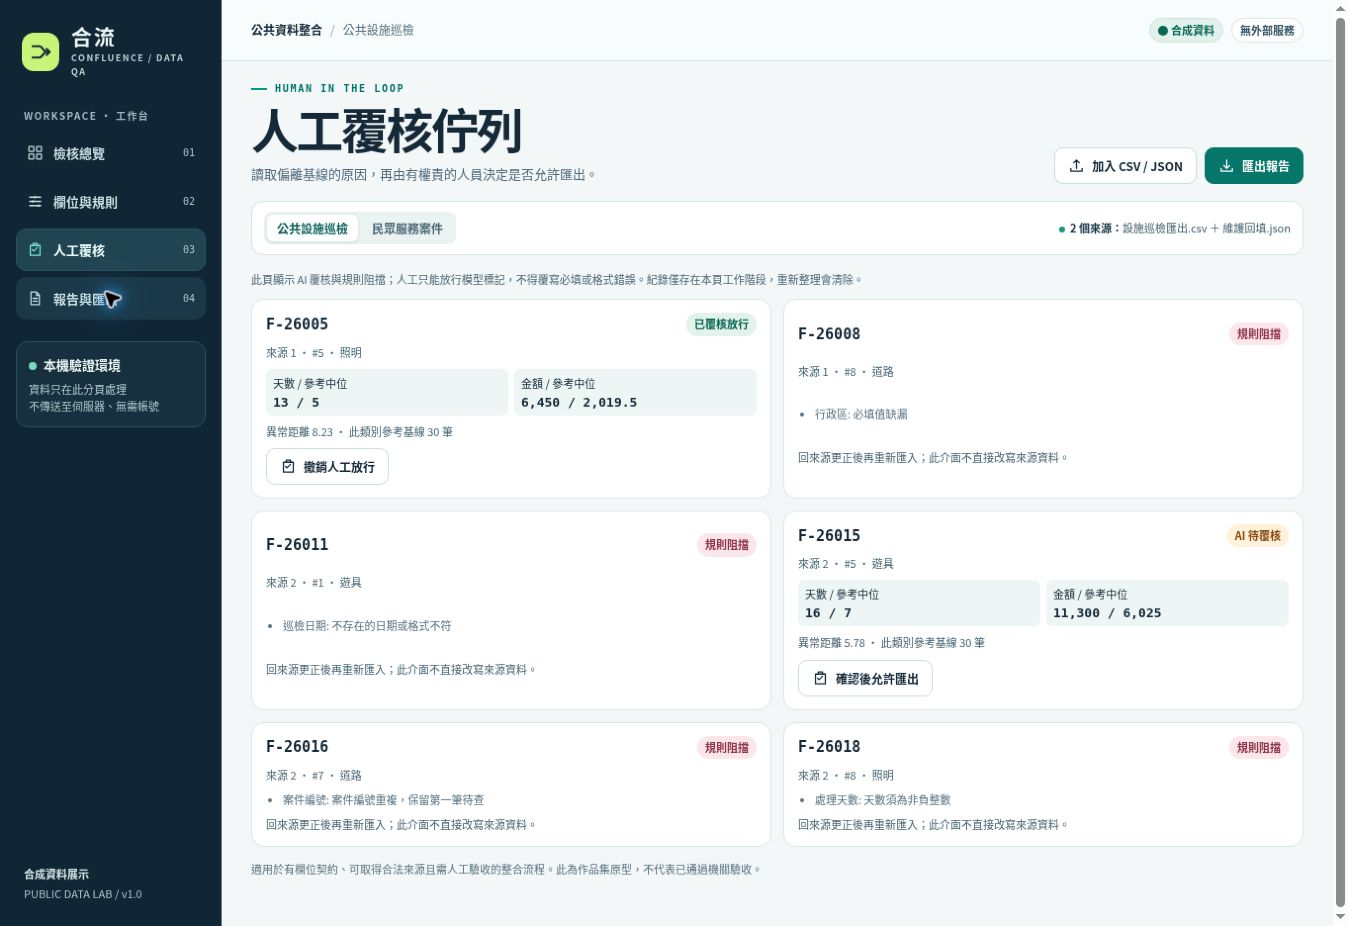
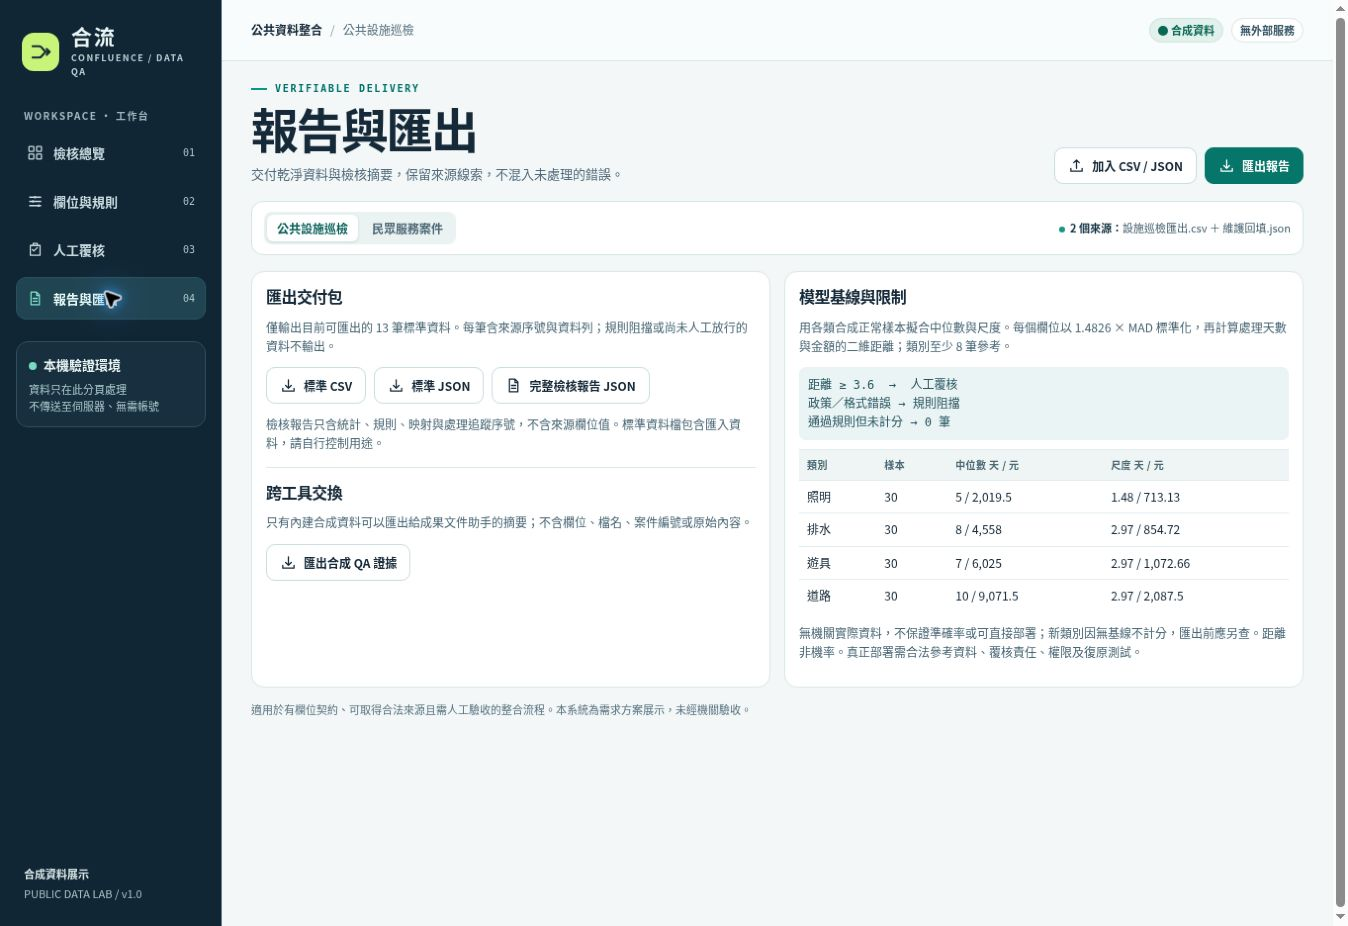
Document formal requirements and acceptance scenarios

diff --git a/app.js b/app.js
@@ -92,7 +92,7 @@ function render(focus){
  '<main class="main" id="main-content"><div class="hero"><div><div class="eyebrow">'+eye+'</div><h1>'+title+'</h1><p>'+desc+'</p></div><div class="actions">'+button('加入 CSV / JSON','import','upload')+button('匯出報告','go-report','download','primary')+'<input type="file" id="upload" accept=".csv,.json,text/csv,application/json" hidden></div></div>'+
  '<div class="sourcebar"><div class="segment" role="group" aria-label="資料場域">'+Object.entries(PRESETS).map(([k,p])=>'<button type="button" data-profile="'+k+'" class="'+(k===state.key?'active':'')+'" aria-pressed="'+(k===state.key)+'">'+esc(p.title)+'</button>').join('')+'</div><div class="source-name" title="'+esc(sourceLabel)+'"><span class="signal"></span><b>'+state.sources.length+' 個來源：</b>'+esc(sourceLabel)+'</div></div>'+
  (state.error?'<p class="notice error" role="alert">'+esc(state.error)+'</p>':'')+widgets[state.tab](a)+
- '<p class="foot">適用於有欄位契約、可取得合法來源且需人工驗收的整合流程。此為作品集原型，不代表已通過機關驗收。'+(!state.demo?' 新上傳檔案未用來重新擬合模型。':'')+'</p></main></div></div>';
+ '<p class="foot">適用於有欄位契約、可取得合法來源且需人工驗收的整合流程。本系統為需求方案展示，未經機關驗收。'+(!state.demo?' 新上傳檔案未用來重新擬合模型。':'')+'</p></main></div></div>';
  if(focus)document.querySelector(focus)?.focus({preventScroll:true});
 }
 function switchTab(tab){state.tab=tab;render('[data-tab="'+tab+'"]');window.scrollTo(0,0);}

diff --git a/README.md b/README.md
@@ -1,57 +1,49 @@
-# 合流｜公共資料品管工作台
+# 合流｜公共資料整合與品質檢核方案
 
-**把不同來源的 CSV／JSON 轉成同一份資料契約，分開處理格式錯誤與異常訊號，再交付可追溯的標準資料。** 這是可執行的作品集原型。兩套情境與參考樣本全為合成資料；不是既有機關系統、投標實績或驗收證明。
+![合流系統總覽：兩個來源的 18 筆合成資料中，12 筆直接通過、2 筆待人工覆核、4 筆規則阻擋](docs/assets/01-overview.jpg)
 
-![桌面實拍：兩個來源整併後的資料品管總覽，顯示18筆、12通過、2待覆核及4阻擋](docs/assets/01-overview.jpg)
+**展示目的：** 案件或巡檢資料來自不同來源時，如何先對齊欄位、隔離不合規資料，再交付可回查的標準檔與檢核報告。示範環境採合成資料，**無委託機關或實際需求方，不是招標原文、投標實績或正式驗收證明**。
 
-| 不同欄名如何整合 | 誰處理錯誤，哪些資料能交付 |
+| 各來源如何對應共同欄位 | 規則錯誤與異常提示如何分流 |
 | --- | --- |
-| ![欄位對應實拍：切換第二個來源並檢查共同欄位](docs/assets/02-mapping.jpg) | ![人工覆核實拍：原始規則問題與模型偏離原因分開](docs/assets/03-review.jpg) |
+| ![來源欄位對應畫面](docs/assets/02-mapping.jpg) | ![人工覆核佇列畫面](docs/assets/03-review.jpg) |
 
-[報告與匯出實拍](docs/assets/04-export.jpg) · [390 px 手機實拍](docs/assets/05-mobile.jpg) · [實際雙檔整併驗證](docs/assets/06-integrated.jpg)
+[實際雙檔整併](docs/assets/06-integrated.jpg) · [報告與匯出](docs/assets/04-export.jpg) · [390 px 行動版](docs/assets/05-mobile.jpg) · [需求、交付與驗收矩陣](docs/REQUIREMENTS.md)
 
-## 機關可以從原型看到什麼
+## 預設場域與流程
 
-- **整合既有作業，不先換掉原系統。** 每個來源各自對應欄位，再轉為共同欄位；含來源序號與來源內的資料列。公共設施巡檢與民眾服務案件共用流程，欄位名稱、分類、樣例和正常參考可切換。
-- **把問題交還給正確的人。** 缺漏、無效日期、負值與重複等屬明確規則。AI 統計模型只提示相對同類資料偏離較大的紀錄；人員可以放行或撤回模型提示，但不能覆寫規則錯誤。原型不做行政、預算、查核或服務資格決定。
-- **用資料與驗收證據交付。** 標準 CSV／JSON 只含規則通過且已核可的資料；另有 JSON 檢核報告回傳計數、映射、規則及列級處理狀態。CSV 保護易觸發試算表公式的文字；JSON 仍是資料，不可任意轉貼到允許執行公式的環境。
-- **易於重跑。** 不需登入、不使用 API key、不安裝前端套件、不把檔案送到服務端；以本機 HTTP 供應靜態檔。重新整理會清除匯入與本頁的覆核，不宣稱已有永久稽核、分權或復原機制。
+| 情境 | 資料現況（合成情境） | 方案目標 |
+| --- | --- | --- |
+| 公共設施巡檢 | 巡檢單與維護回填的欄名、日期及辦理狀態不同 | 對齊巡檢欄位、識別跨來源重複單號與不合理天數 |
+| 民眾服務案件 | 受理案件與區域回填需彙總，時效與成本無共同檢核口徑 | 匯出可回查的合併紀錄，將異常送交承辦人覆核 |
 
-## 三分鐘驗收
+**來源承辦匯出 → 整合承辦逐來源映射 → 規則阻擋或模型提示 → 業務覆核 → 核可資料與報告交付。** 角色為正式導入分工建議，展示介面未實作組織帳號或權限管控。
+
+## 示範需求對照（非招標原文）
+
+| ID | 可操作需求與交付 | 方案展示已涵蓋 |
+| --- | --- | --- |
+| REQ-01 | 多格式匯入、逐來源欄位對應 | UTF-8 CSV／陣列型 JSON；切換兩個場域，依共通七欄整併 |
+| REQ-02 | 資料正規化及品質規則 | 日期、數值、狀態別名、跨來源編號去重；保留來源序號與資料列 |
+| REQ-03 | 異常訊號與人員確認 | 自合成正常參考擬合類別基線；可調門檻、人工允許／撤銷；不得覆寫規則錯誤 |
+| REQ-04 | 標準資料、檢核報告與安全交換 | 核可 CSV／JSON、列級檢核報告，另有合成摘要供「案跡」匯入 |
+| REQ-05 | 前端驗證及可重跑交接 | 架構、範例、測試與畫面；無帳號、不對外送檔，離開分頁不保留工作狀態 |
+
+## 啟動與驗收演練
 
 ```bash
-# Python 3；只在本機啟動靜態伺服器
 python3 -m http.server 8080 --bind 127.0.0.1
 # 開啟 http://127.0.0.1:8080/
+npm test  # 另開終端；Node.js 20+，不需 npm install
 ```
 
-1. 啟動後使用「公共設施巡檢」，再切換「民眾服務案件」。每個預載情境各有 2 個不同欄名來源、18 筆合成紀錄；預設 12 筆直接通過、2 筆待模型覆核、4 筆規則阻擋。看總覽的「整併明細」及來源列。
-2. 從「人工覆核」打開其中一筆 AI 待覆核，對照實值、同類參考中位數與距離，選「確認後允許匯出」。變成 13 筆可匯出、1 筆仍待覆核、4 筆仍阻擋。可撤回；變更映射或規則會清除原放行，避免沿用不適用的決定。
-3. 載入 [設施舊格式 CSV](examples/facilities-legacy.csv)，首次匯入會替換內建合成資料。在「欄位與規則」把案件編號對應至「巡檢郵件編號」；再加入 [設施回填 JSON](examples/facilities-append.json)。預期 6 筆共通資料，3 筆通過、1 筆待覆核、2 筆阻擋（跨來源的重複編號和不存在的日期）。匯出的 3 筆 JSON 可回溯到來源 1 第 1／2 列、來源 2 第 3 列。來源列以第一筆資料為 1，非 CSV 實體行號。
-4. 在「報告與匯出」下載標準 CSV／JSON，以及完整檢核報告 JSON。標準資料可能含自己匯入的內容，**檢核報告**不含來源欄位值；會列原始欄名和對應，因此仍需審視能否分享。格式錯誤的上傳會提示原因、不清掉原批資料。案件 ID 去重保留先到者，不自動猜哪一筆最新或最正確。
+1. 切換兩個預載場域。每個場域各 2 個不同欄名的來源，預設 **18 筆 = 12 通過＋2 待覆核＋4 阻擋**。格式調整筆數與通過筆數是對同一批次的獨立統計。
+2. 「人工覆核」可看到異常紀錄與同類基線的差異。放行其中一筆後，**13 可匯出、1 待覆核、4 阻擋**。規則錯誤不允許放行；修改映射或規則會清除原有放行紀錄。
+3. 加入[舊格式 CSV](examples/facilities-legacy.csv)，手動將「案件編號」對應至「巡檢郵件編號」；再加入[回填 JSON](examples/facilities-append.json)。預期 **6 筆 = 3 通過＋1 待覆核＋2 阻擋**（重複編號及不存在的日期）；標準 JSON 回查至來源 1 的第 1／2 筆、來源 2 的第 3 筆。首個匯入會替換內建批次，後續才追加。
+4. 「報告與匯出」下載標準 CSV／JSON 和檢核報告。標準檔可以含使用者匯入的資料；檢核報告不含資料列原始值，仍含欄名與映射，分享前需審核。
 
-### 交換驗收摘要
+**跨系統交付。** [案跡｜成果文件助手](https://github.com/JWJProjects/report-evidence-ai) 已實測匯入[瀏覽器匯出的合成摘要](examples/qa-evidence.json)，產生有來源線索的統計段落。交換格式維持 `portfolio.qa-evidence.v1`、`profile: policy`。僅純內建合成資料可用，只傳狀態計數，不傳原始內容、欄名、檔名或案件編號。這是手動檔案交換，不是兩套正式系統已介接。
 
-「匯出合成 QA 證據」是給[案跡｜成果文件助手](https://github.com/JWJProjects/report-evidence-ai)的精簡介面：只在純內建合成樣本可用，只輸出固定欄位和加總。可下載 [瀏覽器實際匯出的樣本](examples/qa-evidence.json)。合約 `portfolio.qa-evidence.v1` 的 `profile` 為 `policy`，`synthetic` 為 `true`；`result` 內的通過（含已人工允許）、待覆核和阻擋合計等於總筆數。不傳原始欄位、案件編號、檔案名稱或意見文字。已用兩個實際瀏覽器介面完成交換：合流下載真檔，案跡匯入後產生來源可追溯的統計段落（18／13／1／4）。
+**正式實作邊界。** 展示版用各類 30 筆、每場域 120 筆固定種子的合成正常參考，擬合中位數與 MAD 尺度；距離不是機率，不用於行政或服務資格決策。無基線類別不計分，需另行檢查。正式導入前須確認真實欄位、來源及使用授權、角色權限、留存、資料更新方式與驗收門檻；排程、API／SFTP、永久稽核、備援復原、容量／資安測試均未實作。
 
-## 分工、測試與導入邊界
-
-| 交付能力 | 目前可跑 | 真正導入要確認 |
-| --- | --- | --- |
-| 欄位介接 | CSV 與陣列型 JSON、多來源映射、共同欄位、追溯、UTF-8；每檔 2 MB、整批 10,000 筆、每來源 40 欄 | 正式欄位字典、來源權責、API／SFTP／定時交換、相容版本與金額精度規格 |
-| 品質處置 | 明確規則、MAD 異常提示、人工放行／撤回、匯出對帳 | 角色與權限、永久稽核、覆核時效、告警重送與回復、核准留存 |
-| 上線交接 | 可重跑樣例、測試、唯讀本機原型 | 建立服務監控、容量與資安驗證、部署／備援操作、內部教育與正式驗收責任 |
-| 協作角色 | 資料負責人決定欄位，整合工程配置，業務與 QA 對帳 | 依資料類別與介接範圍確認人日，沒有虛構價格、人力已到位或承接承諾 |
-
-開發入口：`data.js` 定義場域欄名與合成基線；`engine.js` 包含解析、正規化、規則、擬合與計分；`app.js` 組合畫面、匯出、人工放行。第三種場域需新增資料契約、類別及已驗證的參考資料；目前共用 7 欄，不是任意欄型的無程式開發器。其他來源可在應用層建立 `{headers, rows}` 的相同介面；尚未實作 API/SFTP 連接器或排程服務。
-
-**模型如何真的用到資料：** 訓練／擬合在瀏覽器中執行。由固定種子產生每類 30 筆正常參考（每場域 120 筆），從觀測值擬合各類的中位數及 MAD 尺度，給天數和金額設最低尺度避免除零，再以雙軸標準化距離和門檻標記候查。模型未用待查批資料重擬合，分數不是錯誤機率。類別少於 8 筆參考或無基線時不計分；有制度性變動、極端分布、未知類別及基線偏差時，請人工檢核，不能把合成結果當真實準確率。
-
-```bash
-# Node.js 20+；無需 npm install
-npm test
-# 選用：已配置 Python Playwright 與 Chromium 才需要，會重拍 README
-python3 tests/browser-qa.py
-```
-
-政府文件只作為**設計參考**，不代表本案符合任一標案或已過驗收：參考 [林試所評選文件](https://www.tfrin.gov.tw/redirect_files.php?file_name=APlNxDCEL605wNc2DoWGEqualFWYKWcdnr1delQpQQz8XNl9ex&id=65728) 以確認系統整合、相容穩定與測試／交接的表達；參考 [原民會評選文件](https://www.cip.gov.tw/data/bid/202604/T-25631375.pdf?c=1F3AF1A79C1A38425E85BF3C0BF38120&fn=6E2132260E059F3FEF3398801A45C73C&s=C0DAF6E2A93658F9) 區分需求、可行性、分工及實績；以 [政府資料品質參考文件](https://data.gov.tw/dataset/175299) 與 [數位發展部 AI 資源](https://web.moda.gov.tw/digital-affairs/digital-service/ai-resource/18248) 補充機器可讀與模型驗證的表達方式。作品未使用上述機關資料、標誌或圖像。
+設計參考：[林試所評選文件](https://www.tfrin.gov.tw/redirect_files.php?file_name=APlNxDCEL605wNc2DoWGEqualFWYKWcdnr1delQpQQz8XNl9ex&id=65728) 的整合、相容穩定及測試／交接，[原民會評選文件](https://www.cip.gov.tw/data/bid/202604/T-25631375.pdf?c=1F3AF1A79C1A38425E85BF3C0BF38120&fn=6E2132260E059F3FEF3398801A45C73C&s=C0DAF6E2A93658F9) 的需求、可行性、分工及實績區隔，[政府資料品質參考](https://data.gov.tw/dataset/175299) 及 [數位發展部 AI 資源](https://web.moda.gov.tw/digital-affairs/digital-service/ai-resource/18248) 的機器可讀與驗證。僅參考公開文件中如何表達需求；本表由本專案自行設計，來源機關未委託或驗收，也未使用其業務資料、標誌或圖像。

diff --git a/docs/REQUIREMENTS.md b/docs/REQUIREMENTS.md
@@ -1,0 +1,43 @@
+# 合流｜需求、交付與驗收基線
+
+版本 1.0 · 自行設計的需求方案展示，非招標原文。沒有委託機關或實際需求方，不代表承接承諾或機關驗收。本文區分**合成演練已證明**與**正式導入待確認**；若未來正式導入，場域規則、門檻、工期與權責須由實際採用方核定。
+
+## 1. 需求與責任
+
+來源承辦角色提供經授權的匯出及欄位定義；整合承辦人對應與檢核；業務覆核人只處理模型待查，不能在展示內放行規則錯誤；驗收人按輸入、報告及輸出對帳。若有資料錯誤，由來源承辦更正後重新匯入。上述為建議角色，不表示原型已能識別使用者、分權或留存永久查證軌跡。
+
+| 需求 | 交付項 | 可配置或固定行為 | 驗收案例 |
+| --- | --- | --- | --- |
+| **REQ-01 資料整合** | D1 匯入、映射與來源追溯 | 每來源選自己的欄位，預先對應常見欄名；支援 UTF-8 CSV／JSON 物件陣列。每檔 2 MB、40 欄、最多 12 個來源、批次上限 10,000 筆。第一個實際匯入替換預載批次 | AC-01、02、06 |
+| **REQ-02 品質規則** | D2 規則檢核與失敗理由 | 日期、必填、非負整數天數與有限非負金額、已知狀態固定啟用；狀態正規化、跨來源去重可開關。去重採先到者，不自動合併、不推定較新者正確 | AC-02、03、06 |
+| **REQ-03 異常待查** | D3 類別基線與覆核紀錄 | 異常提示可開關、距離門檻 1.0–8.0。模型只提示，不當作定性判斷；規則錯誤不得透過人工放行。改映射／規則重設放行 | AC-01、04、08 |
+| **REQ-04 交付與交換** | D4 標準檔、內部檢核報告、合成摘要 | 標準 CSV／JSON 只含合格資料、附來源序號及來源內資料列；內部報告含映射／規則／處理狀態。跨工具摘要限純內建合成批次，手動下載及匯入 | AC-02、05、07 |
+| **REQ-05 執行與交接** | D5 本機執行、範例、測試及畫面 | 不需外部依賴、API key 或帳號；無後端、無寫回正式來源、無永久稽核。瀏覽器工作階段記憶體，重新整理清除 | AC-01、06、09 |
+
+展示七欄：編號、行政區、類別、日期、處理天數、金額及狀態。擴充新場域可新增 `data.js` 的欄位契約、類別、來源欄名和合法基線，匯入層接收 `{headers, rows}`。既有 `engine.js` 負責解析、規則、資料擬合與計分；`app.js` 負責操作與匯出。現階段不能任意調整欄型或接上自動同步，正式介接應先確認版本、金額精度及失敗重送策略。
+
+## 2. 驗收矩陣
+
+| ID | 操作與輸入 | 預期結果與留存 | 展示驗證現況 |
+| --- | --- | --- | --- |
+| **AC-01** | 依序切換公共設施巡檢、民眾服務案件 | 各 2 個來源、18 筆；12 通過、2 待覆核、4 阻擋。留存[總覽畫面](assets/01-overview.jpg)及計數 | Node、Chrome 互動 |
+| **AC-02** | 匯入[舊 CSV](../examples/facilities-legacy.csv)，重新映射編號，再追加[回填 JSON](../examples/facilities-append.json) | 6 筆中 3 通過、1 待覆核、2 阻擋；匯出 JSON 應回查來源 1 的第 1／2 筆、來源 2 的第 3 筆。留存[雙檔演練畫面](assets/06-integrated.jpg) | Chrome 實際上傳及下載 |
+| **AC-03** | 輸入同編號、無效日期、負天數或缺漏欄位 | 禁止輸出受阻紀錄；保留每筆原因。缺陷資料應由來源承辦更正 | Node 及[覆核畫面](assets/03-review.jpg) |
+| **AC-04** | 比對一筆高距離異常，以人工放行後退出覆核頁 | 預載批次變成 13 可匯出、1 待人工覆核、4 阻擋；規則阻擋不會因放行標記而變更 | Chrome 互動、Node 防覆寫 |
+| **AC-05** | 下載標準 CSV／JSON 與檢核報告 | CSV 中的公式型文字以防護前綴處理；標準檔有來源序號及資料列；報告無資料列原始值，仍含映射 | Node 檢 CSV 防護、Chrome 實下載標準 JSON；完整報告可手動核對 |
+| **AC-06** | 以重複欄名、未閉合引號、少欄或巢狀 JSON 做失敗樣本 | 解析拒絕，不生成新整併結果；前端提示錯誤，保留前批次 | Node 檢解析拒絕；前端錯誤回復流程可重跑，未列為此次 Chrome 實測 |
+| **AC-07** | 匯出[內建合成摘要](../examples/qa-evidence.json)後，在[案跡](https://github.com/JWJProjects/report-evidence-ai)匯入；再以自有匯入批次查看交換按鈕 | 案跡讀到 18／13／1／4；不含原始資料、欄名、檔名或案件編號。自有批次不可交換 | 兩套實際瀏覽器全流程 |
+| **AC-08** | 固定種子重建樣本；輸入罕見或無基線類別 | 同類中位基線的測試點距離為零；參考少於 8 筆不評分，無基線不能視為模型認可 | Node |
+| **AC-09** | 在 390 px 視窗載入，切換導覽，確認表格可區內捲動 | 總覽無全頁水平溢位；有[行動版畫面](assets/05-mobile.jpg) | Chrome 390 px 內嵌視口及畫面確認 |
+
+重跑：`npm test`。選用的 `tests/browser-qa.py` 需要 Python Playwright 與 Chromium；開發環境的殼層 Chromium 建 socket 受限，本次瀏覽器互動以內部 Chrome 實測，未將選用腳本列為通過。
+
+## 3. 正式導入的里程碑與責任
+
+| 里程碑 | 責任與應交付 | 尚未包含於示範 |
+| --- | --- | --- |
+| M1 資料盤點與設計確認 | 資料權責人與執行方核定資料字典、合法來源、樣本與欄位版本、期望誤差及關鍵通知流程 | 真實樣本、個資分類與合法使用確認、正式介接權限 |
+| M2 測試環境與驗收演練 | 整合與測試團隊交付介接規格、錯誤回復、對帳產物；業務覆核人確認規則、模型門檻、拒絕與撤回流程 | API／SFTP、角色權限、永久日誌、正式容量與相容性、未知類別處理 |
+| M3 上線與交接 | 正式採用方指定驗收人、系統維運方核驗發布／回復、備份還原、監控告警及教育手冊 | 資安與備援實測、正式驗收、SLA、上線及保固 |
+
+**資安底線：** 應先釐清資料最小化、匯出範圍、保留期限與驗收資料身分；展示版只用合成案例，不接正式系統或個人資料，不做權限、資安或法規合規的保證。原型的本機處理措施不能取代正式上線安全審查。
